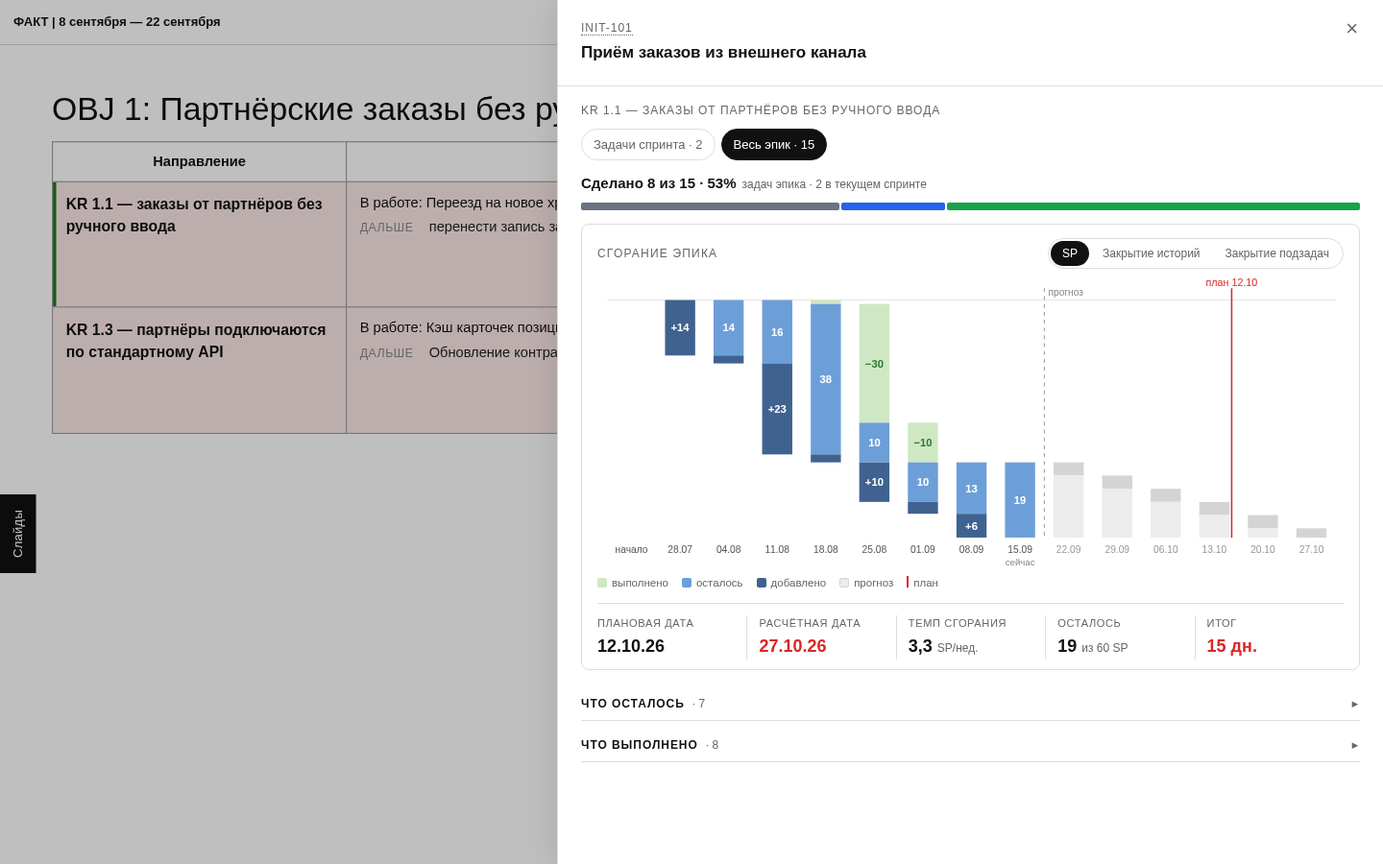
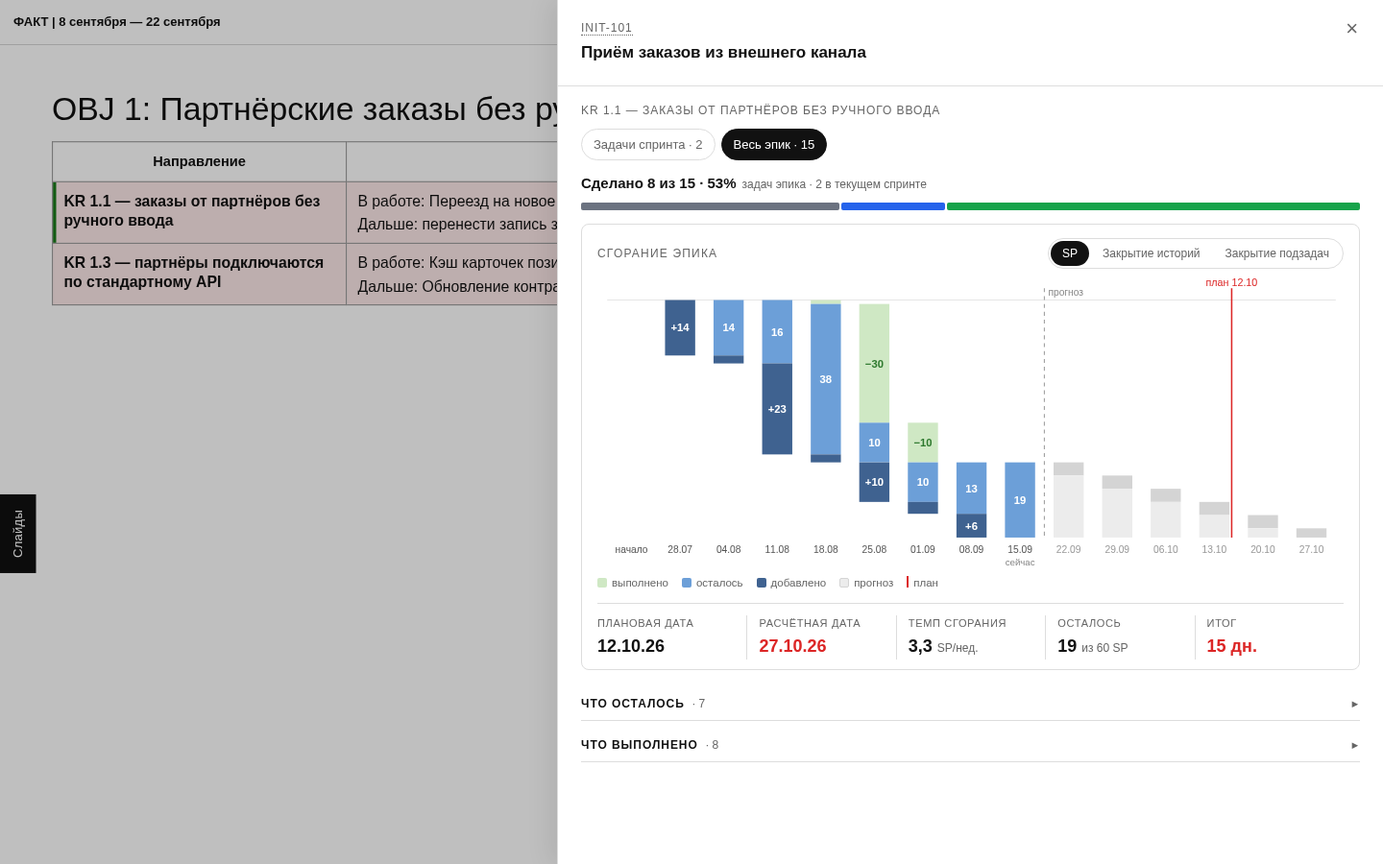
feat(sprint-business): строка как в отчётной колоде — Arial 14px, «Дальше:»/«Блокер:» обычным текстом, в результатах только % и полоса
- «Прогресс инициативы»: в ячейке «N% (+n%)» и полоса; сделано, срок, прогноз, статусы —
  в подсказке полосы; прогноз позже срока или просрочка — красный процент.
- «Результат спринта»: процент и полоса, «закрыто X из Y» — в подсказке полосы; подсказок
  «как посчитано» у процентов нет.
- Текст строки — Arial 14px (8 pt слайда 16:9), плотнее; «Дальше:» и «Блокер:» в строку тем же
  цветом и кеглем; автошаг «по эпику: …» без повтора «дальше».

Changed region(s): [[0.0312, 0.2178, 0.4062, 0.4356]]

diff --git a/.claude/skills/sprint-business/resources/business_template.html b/.claude/skills/sprint-business/resources/business_template.html
@@ -51,7 +51,6 @@
   table.rep td.task { font-weight: 600; }
   table.rep td.task .role { display: block; font-weight: 400; font-size: 11px; color: var(--gray-dark); }
   table.rep td.result { white-space: nowrap; font-weight: 700; }
-  table.rep td.result span { border-bottom: 1px dotted #999; cursor: help; }
   /* статус красит строку целиком: слайд читается светофором сверху вниз */
   table.rep tr.stat-green td { background: var(--green-fill); }
   table.rep tr.stat-yellow td { background: var(--yellow-fill); }
@@ -67,7 +66,8 @@
   /* строка = направление: метки «в блоке» / «не закрыто», результат с полосой историй */
   table.rep.epics col.c1 { width: 23%; } table.rep.epics col.c2 { width: 47%; } table.rep.epics col.c3 { width: 15%; }
   table.rep.epics col.c4 { width: 15%; }
-  table.rep.epics td { font-size: 13px; }
+  /* кегль отчётной колоды: Arial 8 pt на слайде 16:9 (720 pt) = 14px на нашем 1280px */
+  table.rep.epics td { font-size: 14px; line-height: 1.3; padding: 8px 10px; }
   table.rep.epics td.task b { font-size: 14px; }
   table.rep.epics td.task .role { margin-top: 4px; }
   table.rep tr.has-blk td:first-child { box-shadow: inset 4px 0 0 var(--c-blocked); }
@@ -78,9 +78,9 @@
   table.rep .blk { color: #991b1b; }
   /* итог строки: метаданные, текст, «Дальше», «Блокер» — один кегль, подписи серым */
   table.rep.epics td.sum > div + div { margin-top: 4px; }
-  table.rep .ln, .kr-detail .ln { color: #222; }
-  .lbl { display: inline-block; min-width: 58px; margin-right: 6px; font-size: 11px; text-transform: uppercase; letter-spacing: .04em; color: #888; }
-  .ln-blk .lbl { color: #b91c1c; }
+  table.rep .ln, .kr-detail .ln { color: inherit; }
+  /* «Дальше:» / «Блокер:» — обычный текст в строку, как в отчётной колоде */
+  .lbl { display: inline; font: inherit; color: inherit; }
   /* сайдбар KR: два столбца */
   .panel-stack.wide { width: min(1240px, 96vw); }
   .kr2 { display: grid; grid-template-columns: 340px minmax(0, 1fr); gap: 18px; align-items: start; }
@@ -109,22 +109,18 @@
   .sb-subs { display: flex; gap: 1px; height: 6px; } .sb-subs i { flex: 1; border-radius: 1px; }
   .sb:hover .sb-st { box-shadow: 0 0 0 1px #111; }
   table.rep td.result .res-po { font-size: 10.5px; font-weight: 400; color: #777; }
-  table.rep td.result .res-sub { font-size: 11.5px; font-weight: 400; color: #555; margin-top: 3px; }
   table.rep td.result .res-bar { display: flex; height: 8px; border-radius: 4px; overflow: hidden; margin-top: 6px; background: #eee; cursor: help; }
   table.rep td.result .res-bar i { display: block; height: 100%; border-right: 1px solid #fff; }
   table.rep td.result .res-bar i:last-child { border-right: 0; }
   /* «Прогресс инициативы»: весь эпик — полоса стадий, срок и прогноз; клик — «Весь эпик» */
   table.rep td.init { font-weight: 700; cursor: pointer; }
   table.rep td.init:hover .ini-bar { box-shadow: 0 0 0 1px #111; }
-  table.rep td.init .ini-pct { border-bottom: 1px dotted #999; }
+  table.rep td.init .ini-pct.late { color: var(--c-blocked); }
   table.rep td.init .ini-delta { margin-left: 4px; font-size: 12px; color: #15803d; cursor: help; }
   table.rep td.init .ini-delta.zero { color: #888; font-weight: 400; }
-  table.rep td.init .res-sub { font-size: 11.5px; font-weight: 400; color: #555; margin-top: 3px; }
   table.rep td.init .ini-bar { display: flex; height: 8px; border-radius: 4px; overflow: hidden; margin-top: 6px; background: #eee; }
   table.rep td.init .ini-bar i { display: block; height: 100%; border-right: 1px solid #fff; }
   table.rep td.init .ini-bar i:last-child { border-right: 0; }
-  table.rep td.init .ini-due, table.rep td.init .ini-fc { font-size: 11.5px; font-weight: 400; color: #555; margin-top: 5px; white-space: nowrap; }
-  table.rep td.init .ini-fc.late, table.rep td.init .ini-due.late { color: var(--c-blocked); font-weight: 700; }
   table.rep td.init .ini-none { font-weight: 400; color: #999; }
   /* блокаторы в «Результате» */
   table.rep .blk-badge { display: inline-block; margin-top: 7px; font: inherit; font-size: 11.5px; font-weight: 700; color: #b91c1c;
@@ -455,7 +451,7 @@
     table.rep col.c3, table.rep.epics col.c3 { width: 22%; }
     table.rep.epics col.c1 { width: 25%; } table.rep.epics col.c2 { width: 33%; }
     table.rep.epics col.c3, table.rep.epics col.c4 { width: 21%; }
-    table.rep.epics th, table.rep.epics td.result, table.rep td.init .ini-due, table.rep td.init .ini-fc { white-space: normal; }
+    table.rep.epics th, table.rep.epics td.result { white-space: normal; }
     table.rep.epics th { padding: 6px 4px; font-size: 11px; overflow-wrap: anywhere; hyphens: auto; }
     table.rep td { overflow-wrap: anywhere; }
     table.rep .tag { white-space: normal; }
@@ -696,7 +692,7 @@
       : blocked.length ? 'снять блокеры'
       : !s.epic.epicKey ? 'работы вне эпиков закрыты'
       : !s.epic.scope ? 'истории спринта закрыты — взять следующие по эпику'
-      : openScope.length ? 'дальше по эпику: ' + clip(cleanTitle(openScope[0].title), 70)
+      : openScope.length ? 'по эпику: ' + clip(cleanTitle(openScope[0].title), 70)
       : 'эпик завершён';
     // PO оценил направление в 100% — сделанное по плану: статусы задач (например, «В ожидании»
     // у отменённой инициативы) не превращаются в блокер; явный блокер PO остаётся
@@ -891,18 +887,18 @@
     var n = { done: s.done.length, work: s.active.length, blocked: s.blocked.length, open: s.behind.length - s.active.length };
     var bar = s.poDone ? '<i style="flex:1;background:var(--c-done)"></i>'
       : RES_SEGS.map(function (g) { return n[g.id] ? '<i style="flex:' + n[g.id] + ';background:' + g.color + '"></i>' : ''; }).join('');
-    var tip = RES_SEGS.filter(function (g) { return n[g.id]; }).map(function (g) { return g.label + ' ' + n[g.id]; }).join(' · ');
+    var tip = 'закрыто ' + s.done.length + ' из ' + s.rows.length + '\n' +
+      RES_SEGS.filter(function (g) { return n[g.id]; }).map(function (g) { return g.label + ' ' + n[g.id]; }).join(' · ');
     var name = s.ai.kr ? ed('kr:' + t.slug + ':' + key, s.ai.kr, 'b') : '<b>' + esc(streamName(s)) + '</b>';
     return '<tr class="row erow ' + s.cls + (s.showBlk ? ' has-blk' : '') + '" data-ref="' + id + '" data-team="' + esc(t.slug) + '"' +
       (e.epicKey ? ' data-key="' + esc(e.epicKey) + '"' : '') +
       ctxAttr(e.epicKey ? epicTarget(e) : { kind: 'general', title: 'Вне эпиков' }) + ' title="Истории спринта и весь эпик">' +
       '<td class="task">' + name + '</td>' +
-      // одна гарнитура и один кегль: итог, «дальше», блокер — подписью, без жирного и красных абзацев
+      // одна гарнитура и один кегль: итог, «Дальше:», «Блокер:» — обычный текст в строку
       '<td class="sum">' + ed('sdone:' + t.slug + ':' + key, s.text.done, 'div') +
-        (s.text.next ? '<div class="ln"><span class="lbl">Дальше</span>' + ed('snext:' + t.slug + ':' + key, s.text.next, 'span') + '</div>' : '') +
-        (s.text.blocker ? '<div class="ln ln-blk"><span class="lbl">Блокер</span>' + ed('sblk:' + t.slug + ':' + key, s.text.blocker) + '</div>' : '') + '</td>' +
-      '<td class="result"><span title="' + esc(s.how) + '">' + s.pct + '%</span>' + (s.byPo ? '<small class="res-po"> оценка PO</small>' : '') +
-        '<div class="res-sub">закрыто ' + s.done.length + ' из ' + s.rows.length + '</div>' +
+        (s.text.next ? '<div class="ln"><span class="lbl">Дальше:</span> ' + ed('snext:' + t.slug + ':' + key, s.text.next, 'span') + '</div>' : '') +
+        (s.text.blocker ? '<div class="ln ln-blk"><span class="lbl">Блокер:</span> ' + ed('sblk:' + t.slug + ':' + key, s.text.blocker) + '</div>' : '') + '</td>' +
+      '<td class="result"><span>' + s.pct + '%</span>' + (s.byPo ? '<small class="res-po"> оценка PO</small>' : '') +
         '<div class="res-bar" title="' + esc(tip) + '">' + bar + '</div>' +
         (s.showBlk ? '<button type="button" class="blk-badge" data-blk="' + id + '" title="' +
           esc(s.blocked.map(function (r) { return r.st.key + ' · ' + r.st.title + (r.blocker ? ' — ' + r.blocker : ''); }).join('\n')) +
@@ -915,20 +911,20 @@
     var bar = INI_SEGS.map(function (x) {
       return g.n[x.id] ? '<i data-seg="' + x.id + '" style="flex:' + g.n[x.id] + ';background:' + x.color + '"></i>' : '';
     }).join('');
-    var tip = INI_SEGS.filter(function (x) { return x.id !== 'blocked'; }).map(function (x) {
-      return x.label + ' ' + g.n[x.id] + (x.id === 'progress' && g.n.blocked ? ' (+ в блоке ' + g.n.blocked + ')' : '');
-    }).join(' · ') + (g.sp.all ? ' · SP: ' + fmtNum(g.sp.done) + ' из ' + fmtNum(g.sp.all) : '');
     var ddmmOf = function (iso) { return iso.slice(8, 10) + '.' + iso.slice(5, 7); };
+    // в ячейке — только «N% (+n%)» и полоса; сделано, срок, прогноз и статусы — подсказкой полосы,
+    // опоздание по прогнозу и просрочка — красным процентом
+    var tip = ['сделано ' + g.n.done + ' из ' + g.total + (g.inSprint ? ', в этом спринте +' + g.inSprint : ''),
+      (g.due ? 'срок ' + ddmmOf(g.due) + (g.overdue ? ' — просрочен' : '') : 'срок не задан') +
+        (g.forecast ? ' · прогноз ' + ddmmOf(g.forecast) + (g.late ? ' — позже срока' : '') : ''),
+      INI_SEGS.filter(function (x) { return x.id !== 'blocked'; }).map(function (x) {
+        return x.label + ' ' + g.n[x.id] + (x.id === 'progress' && g.n.blocked ? ' (+ в блоке ' + g.n.blocked + ')' : '');
+      }).join(' · ') + (g.sp.all ? ' · SP: ' + fmtNum(g.sp.done) + ' из ' + fmtNum(g.sp.all) : '')].join('\n');
     return '<td class="init" data-init="' + id + '" title="Весь эпик: сгорание, сроки, что осталось">' +
-      '<span class="ini-pct" title="закрытые задачи эпика: ' + g.n.done + ' из ' + g.total + '">' + g.pct + '%</span>' +
+      '<span class="ini-pct' + (g.late || g.overdue ? ' late' : '') + '">' + g.pct + '%</span>' +
       (g.delta !== null ? '<span class="ini-delta' + (g.inSprint ? '' : ' zero') + '" title="вклад спринта: в этом спринте закрыто ' +
         g.inSprint + ' ' + plural(g.inSprint, 'задача', 'задачи', 'задач') + ' эпика из ' + g.total + '">(+' + g.delta + '%)</span>' : '') +
-      '<div class="res-sub">сделано ' + g.n.done + ' из ' + g.total + '</div>' +
-      '<div class="ini-bar" title="' + esc(tip) + '">' + bar + '</div>' +
-      '<div class="ini-due' + (g.overdue ? ' late' : '') + '" title="' + (g.due ? 'Целевая дата эпика в JIRA' : 'Целевая дата эпика в JIRA не задана') + '">' +
-        (g.due ? 'срок ' + ddmmOf(g.due) + (g.overdue ? ' · просрочен' : '') : 'срок не задан') + '</div>' +
-      (g.forecast ? '<div class="ini-fc' + (g.late ? ' late' : '') + '" title="Расчётная дата по темпу сгорания эпика">прогноз ' + ddmmOf(g.forecast) + '</div>' : '') +
-      '</td>';
+      '<div class="ini-bar" title="' + esc(tip) + '">' + bar + '</div></td>';
   }
 
   function objSlide(t, g, page, part, parts) {
@@ -1910,8 +1906,8 @@
           '<div class="kd-meta">' + keyLink(r.st.key) + ' · ' + esc(r.st.status) + (r.st.assignee ? ' · ' + esc(shortName(r.st.assignee)) : '') +
             ' · ' + r.r.flag + r.r.pct + '%</div></div>' +
           '<div class="kd-text">' + esc(r.done) + '</div>' +
-          (r.next ? '<div class="ln"><span class="lbl">Дальше</span>' + esc(r.next) + '</div>' : '') +
-          (r.blocker ? '<div class="ln ln-blk"><span class="lbl">Блокер</span>' + esc(r.blocker) + '</div>' : '') +
+          (r.next ? '<div class="ln"><span class="lbl">Дальше:</span> ' + esc(r.next) + '</div>' : '') +
+          (r.blocker ? '<div class="ln ln-blk"><span class="lbl">Блокер:</span> ' + esc(r.blocker) + '</div>' : '') +
           '<div class="kd-act">' + withTeam(ref.team, function () { return storyCalendar(r.st, ev) + storyFeedHtml(r.st, ev); }) + '</div>';
       })(cur.r) : '<div class="sidebar-empty">Выберите задачу слева.</div>';
       body.innerHTML = '<div class="kr2"><div class="kr-list">' + list + '</div><div class="kr-detail">' + detail + '</div></div>';

diff --git a/.claude/skills/sprint-business/SKILL.md b/.claude/skills/sprint-business/SKILL.md
@@ -113,9 +113,9 @@ python3 .claude/skills/sprint-business/business.py apply
   - **Титул**: только карточки команд по центру — доля закрытых задач крупно, полоса, SP сделано, 🛑 в блоке, ⏳ не закрыто. Без заголовка, периода, статуса спринта и подписи; «ФАКТ | период» — в оглавлении слайдов и в шапке страницы.
   - **Слайд команды** — по центру: «Команда · спринт · период», имя, черта, два числа (задач закрыто, SP сделано) и цели квартала в спринте карточками: OBJ, название, сколько направлений и закрыто X из Y. Блокеров и «не успели» здесь нет — они в строках направлений.
   - **От целей, верхнеуровнево.** Слайд = цель: заголовок «OBJ 3: название» (целей нет — «Направления спринта»; эпики без цели при заданных целях — «Без привязки к OKR»). Таблица «Направление | Итог спринта | Результат спринта | Прогресс инициативы», строка = эпик (KR), истории без эпика — строка «Вне эпиков» последней; строки по убыванию результата. До 6 строк на слайд, поровну (8 → 4 + 4). Подписи про ИИ-агента на слайдах нет.
-  - **Результат спринта** — среднее результата задач спринта (задача: закрыта — 100%; иначе большее из доли закрытых подзадач и стадии — в работе 30, тест 80, ревью 90, не начата 0 — не выше 90), под ним «закрыто X из Y», полоса задач (закрыто / в работе / в блоке / не начато) и, если есть заблокированные, метка **«🛑 блокаторы: N»**: наведение — список, клик — сайдбар блокаторов (суть, с какого дня, блокер, исполнитель, кто эскалирует, последние комментарии, переход к активности). Строка: 100% — зелёная, 50–99 — жёлтая, ниже — красная; есть заблокированные — красная риска слева. Ключ эпика в строке — по наведению меню «JIRA — в браузере» / «JIRA-native — виджет» (`jiraNative`); так же — все ключи в сайдбарах.
-  - **Прогресс инициативы** — весь эпик (`epics[].scope[]`), а не только спринт: процент и «сделано X из Y» по задачам эпика, рядом «(+n%)» — вклад спринта (задачи эпика, закрытые с начала спринта по `doneAt`, от всего объёма; закрытые без даты не считаются), полоса стадий «не начато → в работе (заблокированные — красным рядом) → QA (тест + ревью) → готово», числа и SP — в подсказке; под ней «срок дд.мм» из `epicDue` (целевая дата эпика: «Target end» Advanced Roadmaps, нет — «Срок исполнения»; нет обоих — «срок не задан»; срок прошёл, а эпик не закрыт — «· просрочен» красным) и «прогноз дд.мм» — та же «Расчётная дата», что в «Весь эпик», только если она позже срока (красным) или срока нет. Клик — сайдбар сразу на вкладке «Весь эпик»; клик по остальной строке — «Задачи спринта». Строка «Вне эпиков» и эпик без объёма в данных — прочерк.
-  - **Итог спринта** — ровный текст одного кегля: одно предложение итога (ключ эпика — в шапке сайдбара по клику), «ДАЛЬШЕ …» и «БЛОКЕР …» — подписи мелкими прописными, без жирного и красных абзацев (в «Направлении» — только KR или эпик). Следующий шаг есть **всегда**: незакрытая задача → её шаг; все задачи спринта закрыты → следующее открытое по эпику вне спринта; объёма не осталось → «эпик завершён». Из данных: «Закрыто: <задачи>» (или «В работе: …»), блокер — заблокированные задачи с их блокером или статусом. Сводка агента (`streams.*.done/blocker/next`) заменяет автоматическую.
+  - **Результат спринта** — среднее результата задач спринта (задача: закрыта — 100%; иначе большее из доли закрытых подзадач и стадии — в работе 30, тест 80, ревью 90, не начата 0 — не выше 90) и полоса задач (закрыто / в работе / в блоке / не начато; «закрыто X из Y» и числа — в подсказке полосы, подсказки «как посчитано» у процента нет) и, если есть заблокированные, метка **«🛑 блокаторы: N»**: наведение — список, клик — сайдбар блокаторов (суть, с какого дня, блокер, исполнитель, кто эскалирует, последние комментарии, переход к активности). Строка: 100% — зелёная, 50–99 — жёлтая, ниже — красная; есть заблокированные — красная риска слева. Ключ эпика в строке — по наведению меню «JIRA — в браузере» / «JIRA-native — виджет» (`jiraNative`); так же — все ключи в сайдбарах.
+  - **Прогресс инициативы** — весь эпик (`epics[].scope[]`), а не только спринт. В ячейке только процент закрытых задач эпика, рядом «(+n%)» — вклад спринта (задачи эпика, закрытые с начала спринта по `doneAt`, от всего объёма; закрытые без даты не считаются), и полоса стадий «не начато → в работе (заблокированные — красным рядом) → QA (тест + ревью) → готово». В подсказке полосы — «сделано X из Y», «срок дд.мм» из `epicDue` (целевая дата эпика: «Target end» Advanced Roadmaps, нет — «Срок исполнения»; нет обоих — «срок не задан»), «прогноз дд.мм» (та же «Расчётная дата», что в «Весь эпик»), числа по стадиям и SP. Прогноз позже срока или срок прошёл, а эпик не закрыт — процент красный, причина («позже срока» / «просрочен») — в подсказке. Клик — сайдбар сразу на вкладке «Весь эпик»; клик по остальной строке — «Задачи спринта». Строка «Вне эпиков» и эпик без объёма в данных — прочерк.
+  - **Итог спринта** — ровный текст одного кегля: одно предложение итога (ключ эпика — в шапке сайдбара по клику), «Дальше: …» и «Блокер: …» — обычный текст в строку, тот же цвет и кегль (Arial 14px = 8 pt слайда 16:9, как в отчётной колоде) (в «Направлении» — только KR или эпик). Следующий шаг есть **всегда**: незакрытая задача → её шаг; все задачи спринта закрыты → следующее открытое по эпику вне спринта; объёма не осталось → «эпик завершён». Из данных: «Закрыто: <задачи>» (или «В работе: …»), блокер — заблокированные задачи с их блокером или статусом. Сводка агента (`streams.*.done/blocker/next`) заменяет автоматическую.
   - **Операционный отчёт** — один слайд без заголовка (только метка «Команда · операционный отчёт»): сверху без подписей и легенд «Производительность за 3 спринта» и **одно** «Сгорание спринта» (без подзадач, если сборщик 1.10.0 их разделил, иначе все задачи; клик — расшифровка по дням и задачам). Снизу во всю ширину — **cycle time** закрытых задач за 3 спринта, дни: спринты — полосами с короткими именами (С72…), точки историй (синие) и подзадач (оранжевые), у каждого потока сглаженное скользящее среднее по 5 последним задачам (истории — сплошная, подзадачи — пунктир) с коридором ±σ того же окна, как в JIRA, и его значение подписью в конце линии; поток без закрытых задач не рисуется, в легенде — «за 3 спринта закрытых нет». Клик — сайдбар разбора: вкладки «Все / Истории / Подзадачи», показатели (закрыто, медиана, среднее, σ, порог выброса, выбросы, в зоне риска), классическая диаграмма управления со списками выбросов и зоны риска, таблица по спринтам. Слайда «Сроки» и времени в статусах нет (решение владельца 2026-10-12).
   - **«Участники»** — следующий слайд, метка «Команда · участники»: имя — узкая постоянная колонка, дальше три столбца — **«Задачи из прошлого спринта»** (история спринта, которая была и в предыдущем спринте `output.sprints`; первый спринт доски — столбец пуст), **«Текущий спринт»** (взятые в этот спринт) и **«Вне спринта»** (задачи, которые человек двигал за период, кроме задач спринта, `output.offboard`; клик — сайдбар с активностью). Ширина столбца — по его самому длинному ряду (единица — подзадача — во всех столбцах одной ширины), не уже 16%; блоки делят ширину пропорцией и не вылезают за столбец. Группы: команда, **[EXT]** (на доске, но не в `members`), «Не назначен» в конце. Блок на историю: сверху полоса истории (цвет — статус), под ней её подзадачи, каждая своим цветом; ширина — по числу подзадач; подзадачи участника в чужой истории — с бледной полосой истории; наведение — сколько висит: дней в текущем статусе (с `statusChanged`; у закрытой — дата закрытия), lead time (с создания) и cycle time (с первого перехода из начального статуса, если это не сразу закрытие) по `events` — до закрытия или до сбора; у подзадач — дней в статусе; клик — активность истории. Клик по имени — сайдбар участника: сверху SP план / факт, задачи и подзадачи план / факт и lead time, вне спринта всего / закрыто; ниже — задачи по спринтам.
   - **«Планы на следующий спринт»** — после слайда «Участники», рабочий слайд для техлидов: четыре колонки «Взять в работу» / «Доделать» / «Возможно войдёт» / «Эскалировать»; внутри колонки — по направлениям (шапка эпика со счётчиком), строка — суть задачи без ключа, ключ и пояснение — в подсказке; у «Эскалировать» пояснение видно (до двух строк). До 15 строк в колонке вместе с шапками, остальное — «ещё N — в подсказке», счётчик колонки — всё. Клик по шапке колонки — читаемый список в сайдбаре: по направлениям, у задачи ключ, суть, приоритет, статус, исполнитель и пояснение; вкладки — все четыре колонки. Из `plans` агента, иначе из данных: «Взять» — до трёх следующих открытых задач эпика вне спринта не низкого приоритета (+N в шапке — сколько ещё в объёме), «Доделать» — незакрытое в спринте, кроме заблокированного, «Возможно войдёт» — открытые задачи эпика с низким приоритетом (Low / Lowest / Minor / Trivial / Низкий), «Эскалировать» — заблокированное с блокером.

diff --git a/docs/actual-sprint-guide.md b/docs/actual-sprint-guide.md
@@ -197,9 +197,9 @@ python3 .claude/skills/actual-sprint/runner/run.py run --config sprint-report.co
 
 Слайдов «Изменения», «Демо» и «Итоги» нет: итог спринта — на слайде команды.
 
-**Результат строки.** Среднее результата историй спринта. История: закрытая — 100%; иначе — большее из доли закрытых подзадач и стадии (в работе 30, тест 80, ревью 90, не начата 0), но не выше 90%. Строка: 100% — зелёная, 50–99% — жёлтая, ниже — красная; есть заблокированные истории — красная риска слева. Как посчитано — в подсказке у процента.
+**Результат строки.** Среднее результата историй спринта. История: закрытая — 100%; иначе — большее из доли закрытых подзадач и стадии (в работе 30, тест 80, ревью 90, не начата 0), но не выше 90%. Строка: 100% — зелёная, 50–99% — жёлтая, ниже — красная; есть заблокированные истории — красная риска слева. В ячейке — процент и полоса, «закрыто X из Y» — в подсказке полосы.
 
-**Прогресс инициативы.** Весь эпик, а не только спринт: процент с «(+n%)» — сколько добавил этот спринт (задачи эпика, закрытые с его начала), «сделано X из Y» задач эпика, полоса «не начато / в работе (заблокированные — красным) / QA / готово», целевая дата эпика из JIRA («Target end» Advanced Roadmaps, нет — «Срок исполнения»; прошла, а эпик не закрыт — «просрочен» красным) и прогноз — та же расчётная дата, что в «Весь эпик», если она позже срока (красным) или срока нет. Клик по ячейке — сайдбар сразу на «Весь эпик».
+**Прогресс инициативы.** Весь эпик, а не только спринт: процент с «(+n%)» — сколько добавил этот спринт (задачи эпика, закрытые с его начала), и полоса «не начато / в работе (заблокированные — красным) / QA / готово». «Сделано X из Y», целевая дата эпика из JIRA («Target end» Advanced Roadmaps, нет — «Срок исполнения») и прогноз — в подсказке полосы; прогноз позже срока или срок прошёл — процент красный. Клик по ячейке — сайдбар сразу на «Весь эпик».
 
 **Заблокированы и не успели.** «Заблокировано» — истории в статусе блокировки: команда ждёт других, нужна помощь. «Не успели по объёму» — не закрыто и не заблокировано: не закрыли сами. До последнего рабочего дня спринта вторая группа называется «Пока не закрыто».
 
